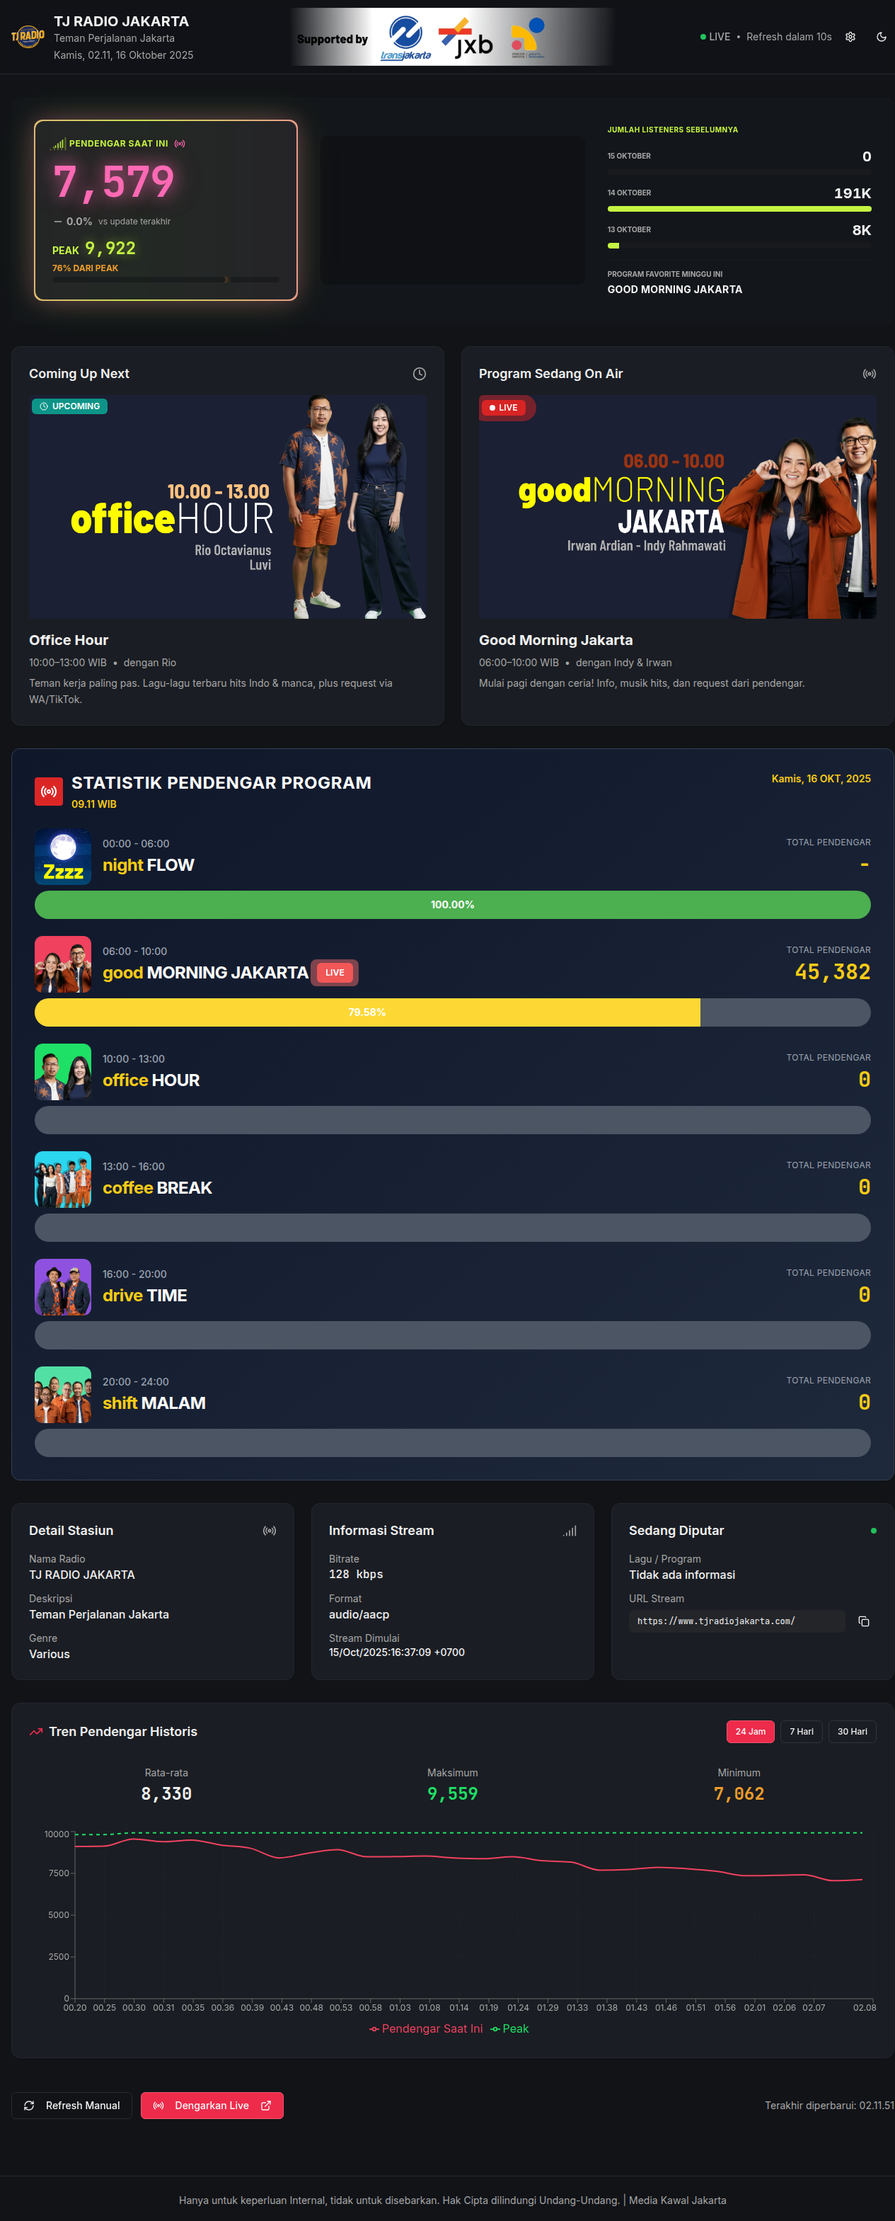
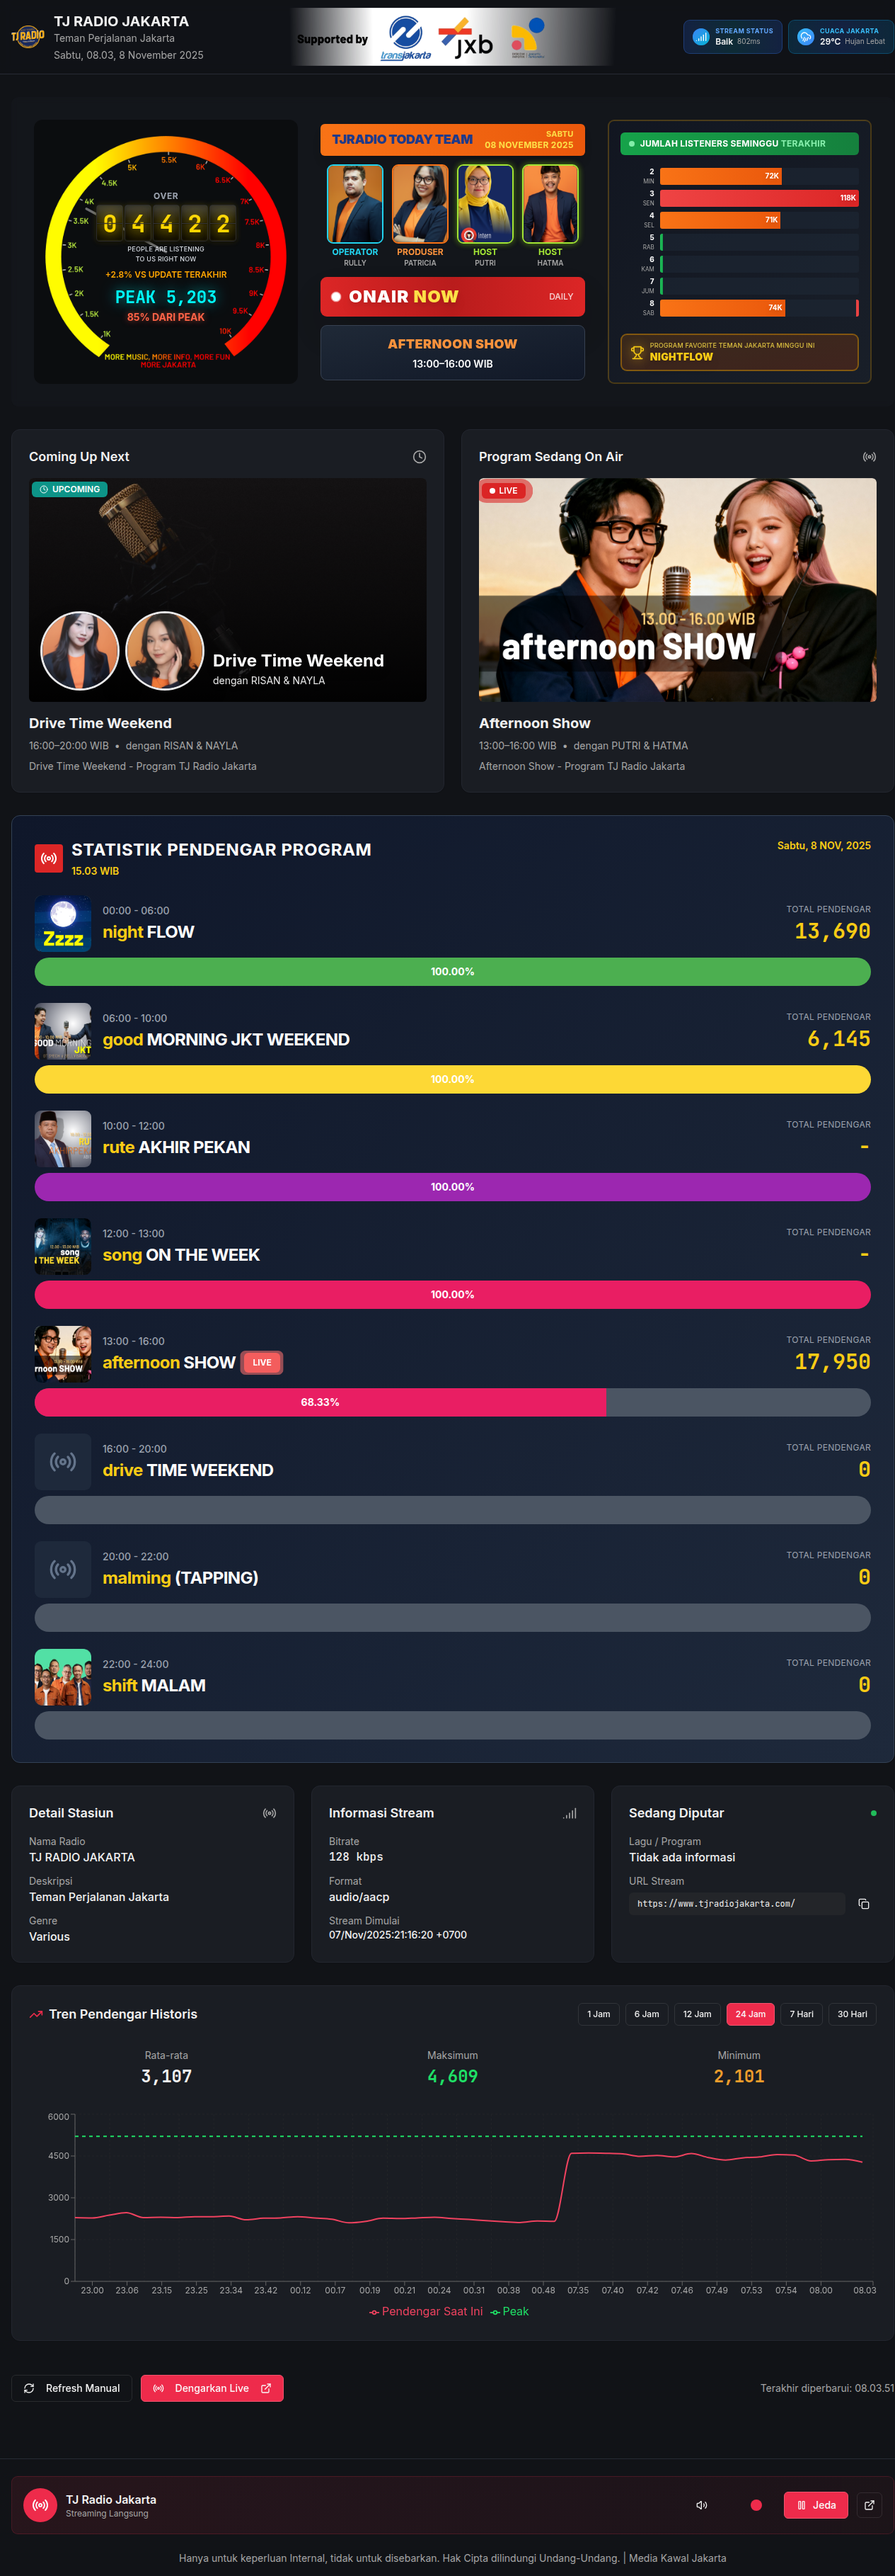
Improve program image display by normalizing titles and updating styling
Refactors `getProgramImage` and `needsTextOverlay` functions to normalize program titles (trimming whitespace and converting to lowercase) for consistent image matching. Updates styling for host images in `ComingUpNext` and `OnAirProgram` components, changing class names and adjusting `objectPosition` for better display.

Replit-Commit-Author: Agent
Replit-Commit-Session-Id: e4b40c4b-353a-4064-a405-e37e7aee9b7b
Replit-Commit-Checkpoint-Type: full_checkpoint
Replit-Commit-Event-Id: 51bd5faf-06ea-4f49-97f2-8577899f3aca
Replit-Commit-Screenshot-Url: https://storage.googleapis.com/screenshot-production-us-central1/4554a71a-bec5-4a58-9b7f-11e7cd305465/e4b40c4b-353a-4064-a405-e37e7aee9b7b/5zfN3En

diff --git a/client/src/components/coming-up-next.tsx b/client/src/components/coming-up-next.tsx
@@ -51,6 +51,9 @@ interface ComingUpNextProgram {
 
 // Function to get program image based on program name and current date
 const getProgramImage = (programTitle: string): string => {
+  // Normalize title: trim whitespace and convert to lowercase
+  const normalizedTitle = programTitle.trim().toLowerCase();
+  
   // Get current date in WIB timezone
   const now = new Date();
   const wibOffset = 7 * 60; // WIB = UTC+7
@@ -59,38 +62,39 @@ const getProgramImage = (programTitle: string): string => {
   const dayOfWeek = wibTime.getDay(); // 0 = Sunday, 6 = Saturday
   
   // For Good Morning Jakarta: use odahote on Sat/Sun, goodmorningjakarta on Mon-Fri
-  if (programTitle === 'Good Morning Jakarta') {
+  if (normalizedTitle === 'good morning jakarta') {
     return (dayOfWeek === 0 || dayOfWeek === 6) ? odahoteImg : goodmorningjakartaImg;
   }
   
   const imageMap: Record<string, string> = {
-    'Night Flow': nightflowImg,
-    'Office Hour': officehourImg,
-    'Coffee Break': coffeebreakImg,
-    'Drive Time': drivetimeImg,
-    'Shift Malam': shiftmalamImg,
-    'Good Morning JKT Weekend': goodmorningjktweekendImg,
-    'Rute Akhir Pekan': ruteakhirpekanImg,
-    'Song on the Week': songontheweekImg,
-    'Afternoon Show': afternoonshowImg,
-    'Drive Time Weekend': drivetimeweekendImg,
-    'MALMING (TAPPING)': malmingImg,
-    'Weekend Seru': weekendseruImg,
-    'Yesterday Hit': fallbackImage,
+    'night flow': nightflowImg,
+    'office hour': officehourImg,
+    'coffee break': coffeebreakImg,
+    'drive time': drivetimeImg,
+    'shift malam': shiftmalamImg,
+    'good morning jkt weekend': goodmorningjktweekendImg,
+    'rute akhir pekan': ruteakhirpekanImg,
+    'song on the week': songontheweekImg,
+    'afternoon show': afternoonshowImg,
+    'drive time weekend': drivetimeweekendImg,
+    'malming (tapping)': malmingImg,
+    'weekend seru': weekendseruImg,
+    'yesterday hit': fallbackImage,
   };
   
-  return imageMap[programTitle] || fallbackImage;
+  return imageMap[normalizedTitle] || fallbackImage;
 };
 
 // Check if program needs text overlay (AI-generated image)
 const needsTextOverlay = (programTitle: string): boolean => {
+  const normalizedTitle = programTitle.trim().toLowerCase();
   const aiGeneratedPrograms = [
-    'Drive Time Weekend',
-    'MALMING (TAPPING)',
-    'Weekend Seru',
-    'Yesterday Hit',
+    'drive time weekend',
+    'malming (tapping)',
+    'weekend seru',
+    'yesterday hit',
   ];
-  return aiGeneratedPrograms.includes(programTitle);
+  return aiGeneratedPrograms.includes(normalizedTitle);
 };
 
 // Get host photos from presenter string
@@ -182,14 +186,14 @@ export function ComingUpNext() {
                         {hostPhotos.map((photo, index) => (
                           <div 
                             key={index}
-                            className="relative w-28 h-28"
+                            className="relative size-28 aspect-square overflow-hidden rounded-full border-[3px] border-white/90 shadow-2xl bg-muted"
                           >
                             <img 
                               src={photo} 
                               alt={`Host ${index + 1}`}
-                              className="w-full h-full object-cover rounded-full border-4 border-white/90 shadow-2xl bg-muted"
+                              className="size-full object-cover"
                               data-testid={`img-host-${index}`}
-                              style={{ objectPosition: 'center 20%' }}
+                              style={{ objectPosition: '50% 25%' }}
                             />
                             {/* Glow effect */}
                             <div className="absolute inset-0 rounded-full bg-gradient-to-br from-white/20 to-transparent pointer-events-none" />

diff --git a/client/src/components/on-air-program.tsx b/client/src/components/on-air-program.tsx
@@ -52,6 +52,9 @@ interface OnAirProgram {
 
 // Function to get program image based on program name and current date
 const getProgramImage = (programTitle: string): string => {
+  // Normalize title: trim whitespace and convert to lowercase
+  const normalizedTitle = programTitle.trim().toLowerCase();
+  
   // Get current date in WIB timezone
   const now = new Date();
   const wibOffset = 7 * 60; // WIB = UTC+7
@@ -60,38 +63,39 @@ const getProgramImage = (programTitle: string): string => {
   const dayOfWeek = wibTime.getDay(); // 0 = Sunday, 6 = Saturday
   
   // For Good Morning Jakarta: use odahote on Sat/Sun, goodmorningjakarta on Mon-Fri
-  if (programTitle === 'Good Morning Jakarta') {
+  if (normalizedTitle === 'good morning jakarta') {
     return (dayOfWeek === 0 || dayOfWeek === 6) ? odahoteImg : goodmorningjakartaImg;
   }
   
   const imageMap: Record<string, string> = {
-    'Night Flow': nightflowImg,
-    'Office Hour': officehourImg,
-    'Coffee Break': coffeebreakImg,
-    'Drive Time': drivetimeImg,
-    'Shift Malam': shiftmalamImg,
-    'Good Morning JKT Weekend': goodmorningjktweekendImg,
-    'Rute Akhir Pekan': ruteakhirpekanImg,
-    'Song on the Week': songontheweekImg,
-    'Afternoon Show': afternoonshowImg,
-    'Drive Time Weekend': drivetimeweekendImg,
-    'MALMING (TAPPING)': malmingImg,
-    'Weekend Seru': weekendseruImg,
-    'Yesterday Hit': fallbackImage,
+    'night flow': nightflowImg,
+    'office hour': officehourImg,
+    'coffee break': coffeebreakImg,
+    'drive time': drivetimeImg,
+    'shift malam': shiftmalamImg,
+    'good morning jkt weekend': goodmorningjktweekendImg,
+    'rute akhir pekan': ruteakhirpekanImg,
+    'song on the week': songontheweekImg,
+    'afternoon show': afternoonshowImg,
+    'drive time weekend': drivetimeweekendImg,
+    'malming (tapping)': malmingImg,
+    'weekend seru': weekendseruImg,
+    'yesterday hit': fallbackImage,
   };
   
-  return imageMap[programTitle] || fallbackImage;
+  return imageMap[normalizedTitle] || fallbackImage;
 };
 
 // Check if program needs text overlay (AI-generated image)
 const needsTextOverlay = (programTitle: string): boolean => {
+  const normalizedTitle = programTitle.trim().toLowerCase();
   const aiGeneratedPrograms = [
-    'Drive Time Weekend',
-    'MALMING (TAPPING)',
-    'Weekend Seru',
-    'Yesterday Hit',
+    'drive time weekend',
+    'malming (tapping)',
+    'weekend seru',
+    'yesterday hit',
   ];
-  return aiGeneratedPrograms.includes(programTitle);
+  return aiGeneratedPrograms.includes(normalizedTitle);
 };
 
 // Get host photos from presenter string
@@ -183,14 +187,14 @@ export function OnAirProgram() {
                         {hostPhotos.map((photo, index) => (
                           <div 
                             key={index}
-                            className="relative w-28 h-28"
+                            className="relative size-28 aspect-square overflow-hidden rounded-full border-[3px] border-white/90 shadow-2xl bg-muted"
                           >
                             <img 
                               src={photo} 
                               alt={`Host ${index + 1}`}
-                              className="w-full h-full object-cover rounded-full border-4 border-white/90 shadow-2xl bg-muted"
+                              className="size-full object-cover"
                               data-testid={`img-host-${index}`}
-                              style={{ objectPosition: 'center 20%' }}
+                              style={{ objectPosition: '50% 25%' }}
                             />
                             {/* Glow effect */}
                             <div className="absolute inset-0 rounded-full bg-gradient-to-br from-white/20 to-transparent pointer-events-none" />
